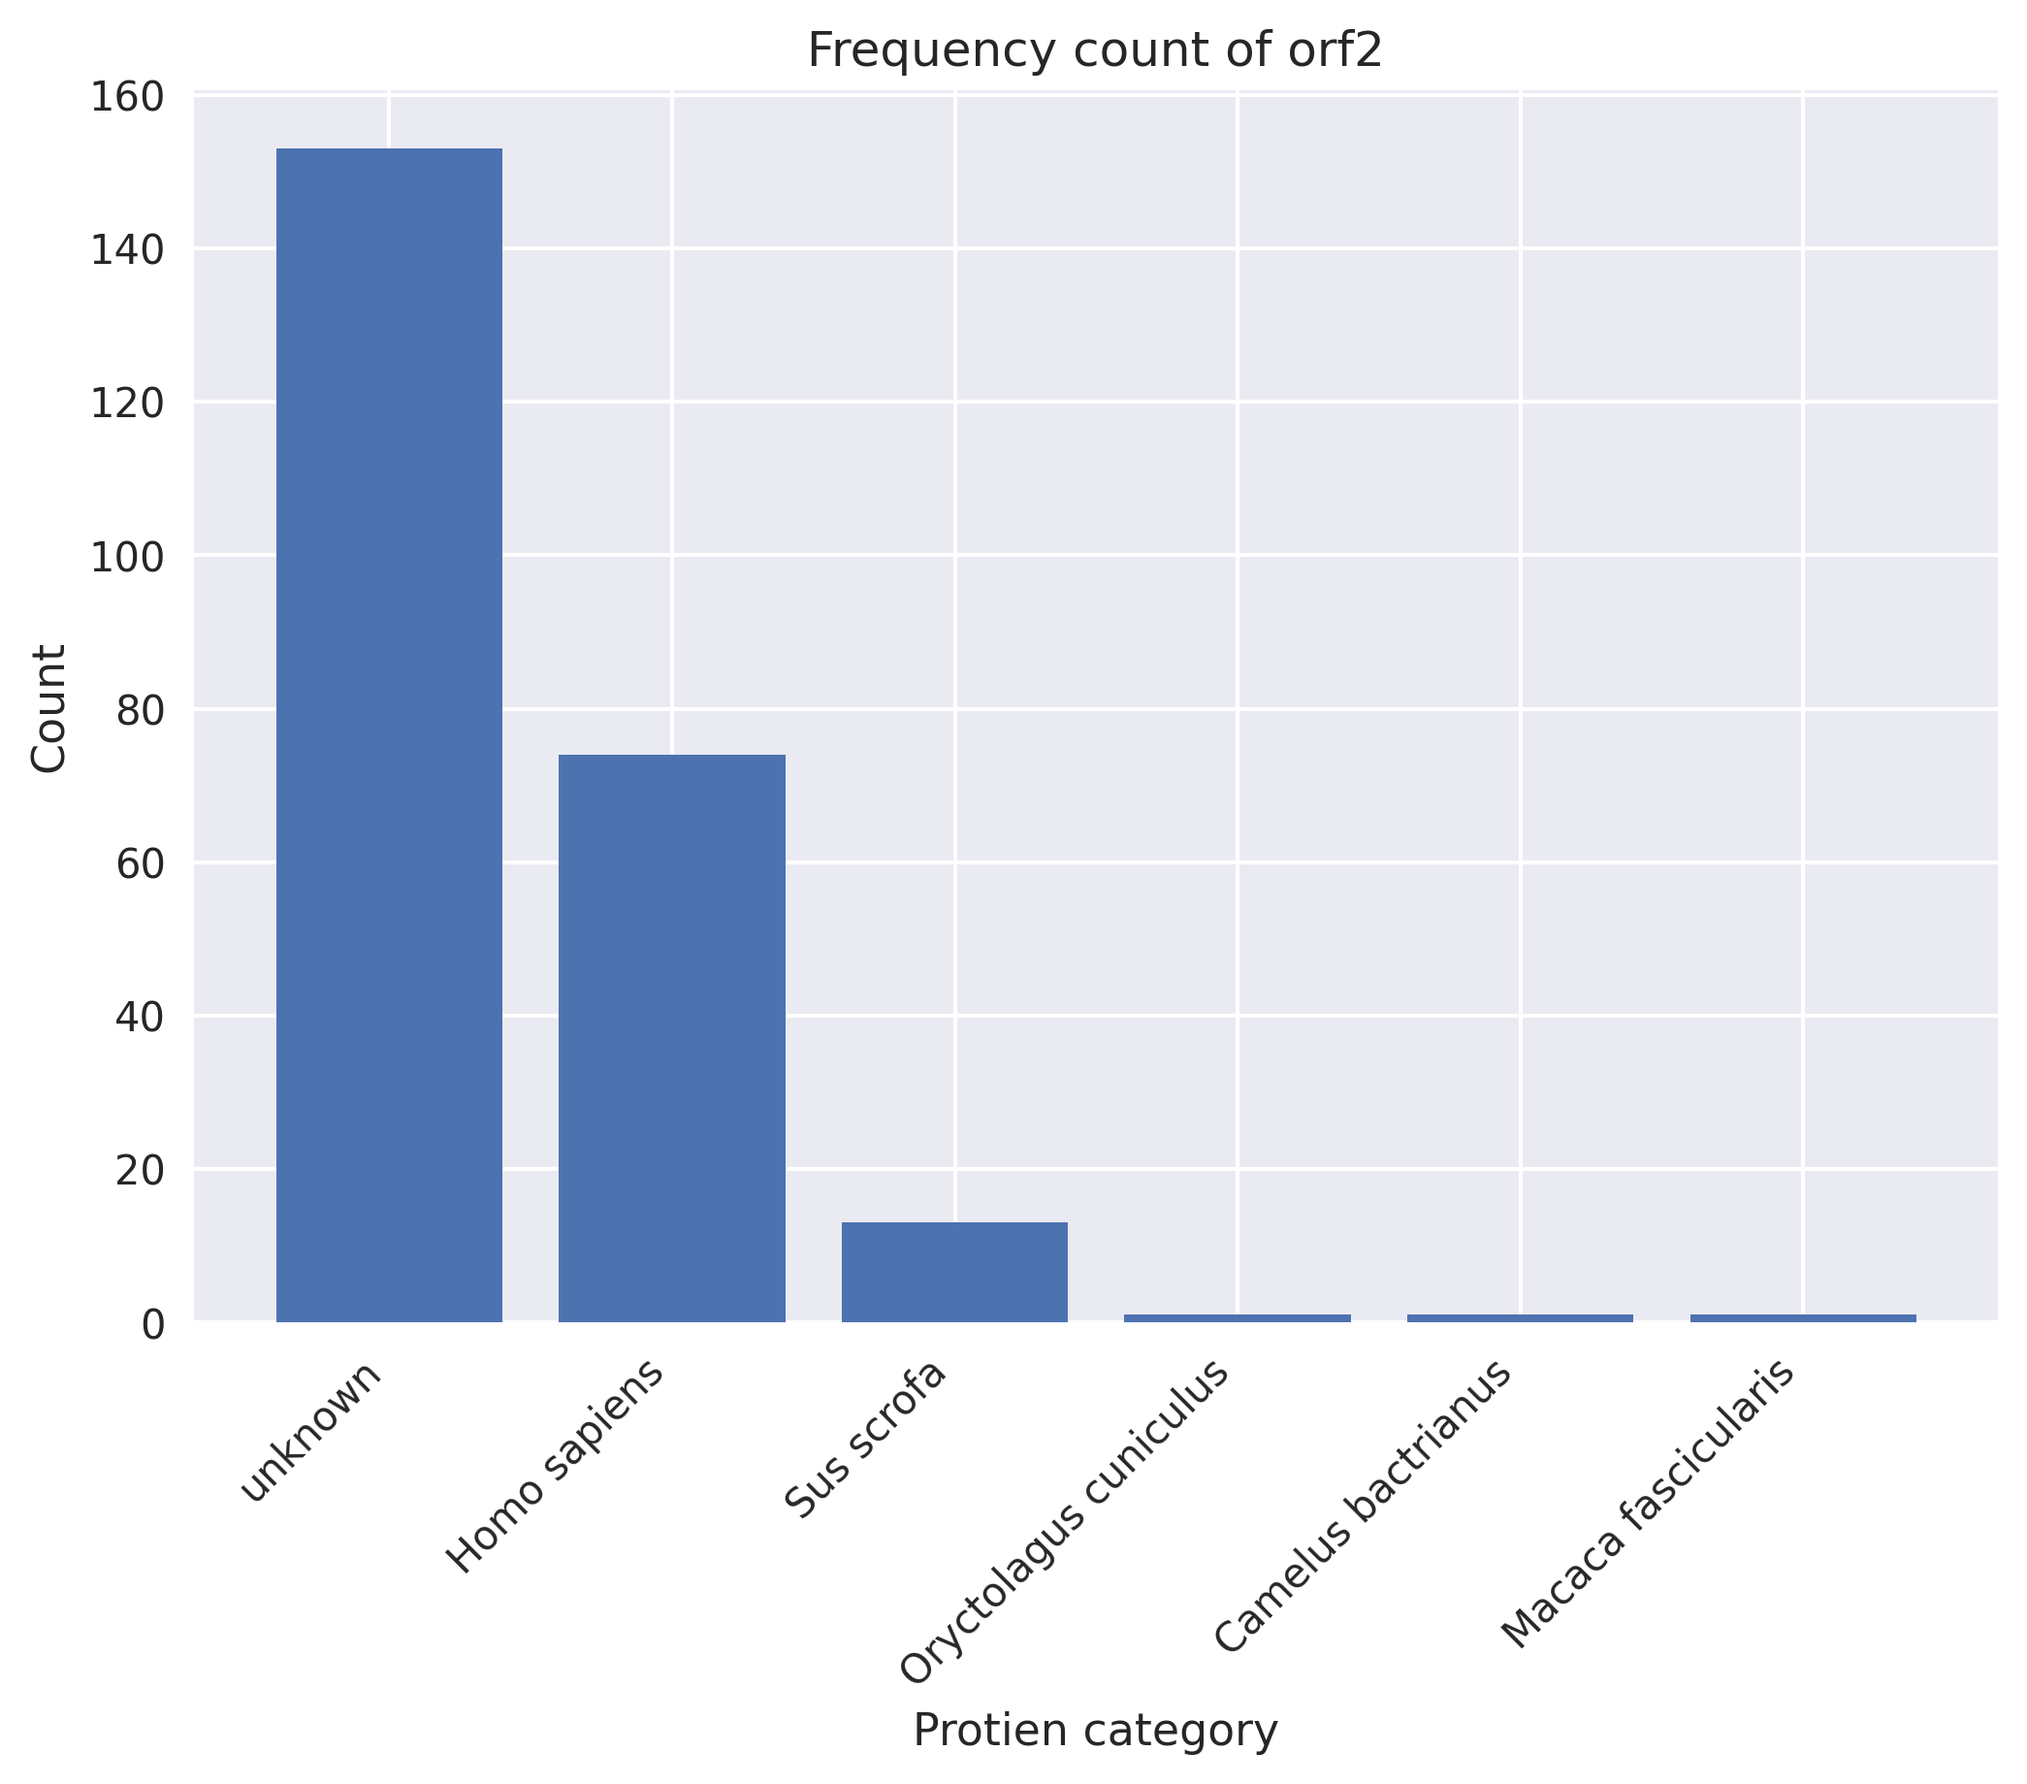
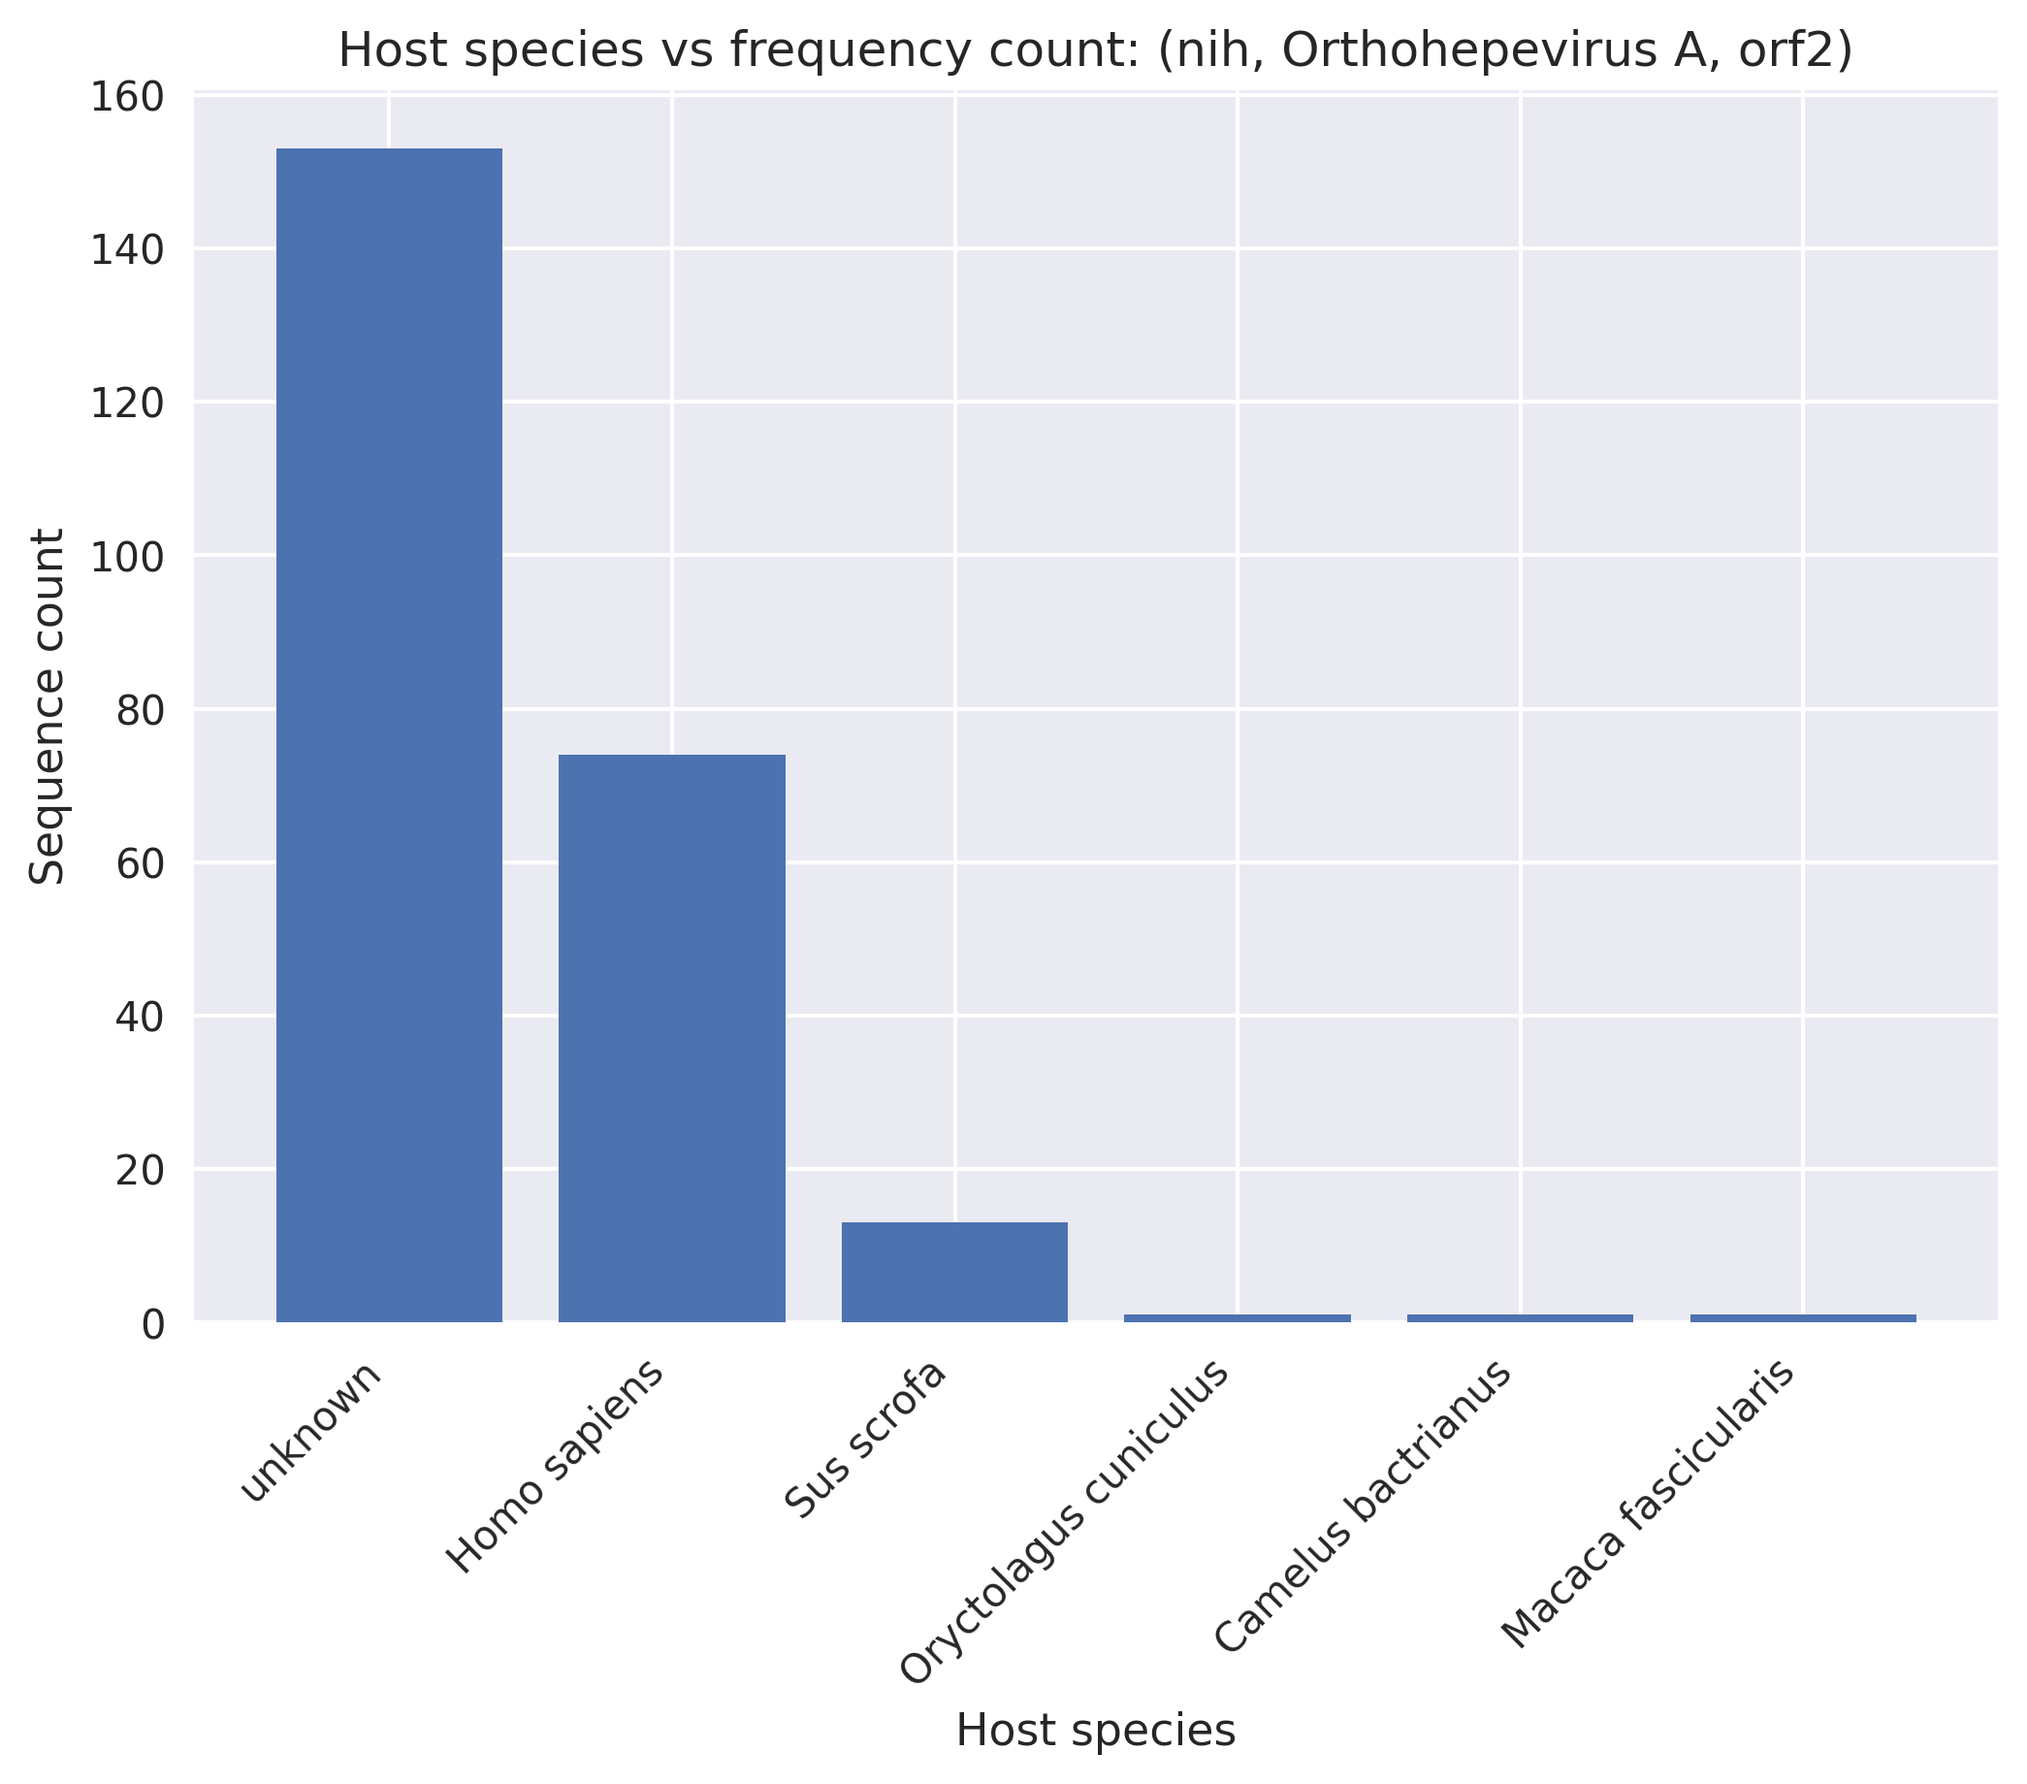
update figures

diff --git a/bin/hep.py b/bin/hep.py
@@ -194,10 +194,10 @@ def split_seqs(seqs, split_method='random'):
     return train_seqs, test_seqs
 
 def setup(args):
-    fnames = ['data/hep/2022-05-16-NucComplete-OrthohepevirusA-viprbrc.fasta'] # From VIPBRC
+    #fnames = ['data/hep/2022-05-16-NucComplete-OrthohepevirusA-viprbrc.fasta'] # From VIPBRC
     #fnames = ['data/hep/2022-05-16-NucComplete-OrthohepevirusA-viprbrc.fasta', # From VIPRBRC
 	#           'data/hep/2022-05-16-NucComplete-OrthohepevirusA-ORF1-ORF2-NCBI.fasta'] # From NCBI
-    #fnames = ['data/hep/2022-05-16-NucComplete-OrthohepevirusA-ORF1-ORF2-NCBI.fasta'] # From NCBI
+    fnames = ['data/hep/2022-05-16-NucComplete-OrthohepevirusA-ORF1-ORF2-NCBI.fasta'] # From NCBI
 
     seqs = process(fnames)
 
@@ -295,9 +295,11 @@ if __name__ == '__main__':
             	speciesORF1Counter[sv[0]['host']]+=1
 
         speciesORF2Counter = Counter()
+        dataset = None
         for sv in seqs.values():
             if "orf2" in sv[0]["protein"].lower():
             	speciesORF2Counter[sv[0]['host']]+=1
+            dataset = sv[0]["dataset"]
 
 	    # Vis with numpy
         import matplotlib.pyplot as plt
@@ -316,9 +318,9 @@ if __name__ == '__main__':
                     #fontweight='heavy',
                     #fontsize='small'
 	            )
-            plt.xlabel('Protien category')
-            plt.ylabel('Count')
-            plt.title(f'Frequency count of {p_name}')
+            plt.xlabel('Host species')
+            plt.ylabel('Sequence count')
+            plt.title(f'Host species vs frequency count: ({dataset}, Orthohepevirus A, {p_name})')
 
 	        # Print image
             name = f'distribution-{p_name}.png'
